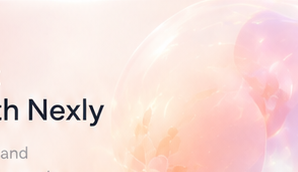
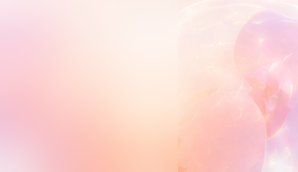
discover: the hero crop carried the mock's headline tail — de-texted, veil-zone blur, both copies re-derived
The first render of gs_discover_hero showed a stray "lly" behind the Start Exploring pill: the mock's headline runs to crop x~390, inside the art zone. The left 148px is now mirror-patched from its neighbour and blurred (Gaussian 18) — it is veil territory by layout, so nothing crisp is asked of it, and the right-side bubbles keep the mock's own pixels untouched. prepare_home_art's note records the patch; both platforms re-derived byte-identical; --check green.

Changed region(s): [[0.0, 0.3488, 0.5436, 1.0], [0.5436, 0.7558, 0.604, 0.8721], [0.5738, 0.9593, 0.604, 1.0]]

diff --git a/scripts/prepare_home_art.py b/scripts/prepare_home_art.py
@@ -166,9 +166,11 @@ MANIFEST = [
         (298, 172), (1083, 450), 3.7, "discover",
         "The Discover reference's own bubble cluster (purple bloom over the "
         "orange sphere), cropped from the committed mock crop inside the card "
-        "rims. The hero bleeds the full card, so need is the 3x card; the "
-        "source is the mock's own pixels at 1.48 px/pt, and the 3.7x draw of a "
-        "soft-focus bubble crop invents no detail — declared, not accidental."),
+        "rims. The crop's left 148px carried the mock's headline tail — it is "
+        "mirror-patched and blurred (veil territory; the right-side bubbles "
+        "keep their crispness). The hero bleeds the full card, so need is the "
+        "3x card; the source is the mock's own pixels at 1.48 px/pt, and the "
+        "3.7x draw of a soft-focus bubble crop invents no detail — declared."),
     Art("gs_explore_col_design", "GSExploreColDesign", "explore/gs-explore-col-design.png",
         (212, 108), (504, 258), 2.4, "explore",
         "Collection scene (Design & Visuals): the reference's lotus band, "
